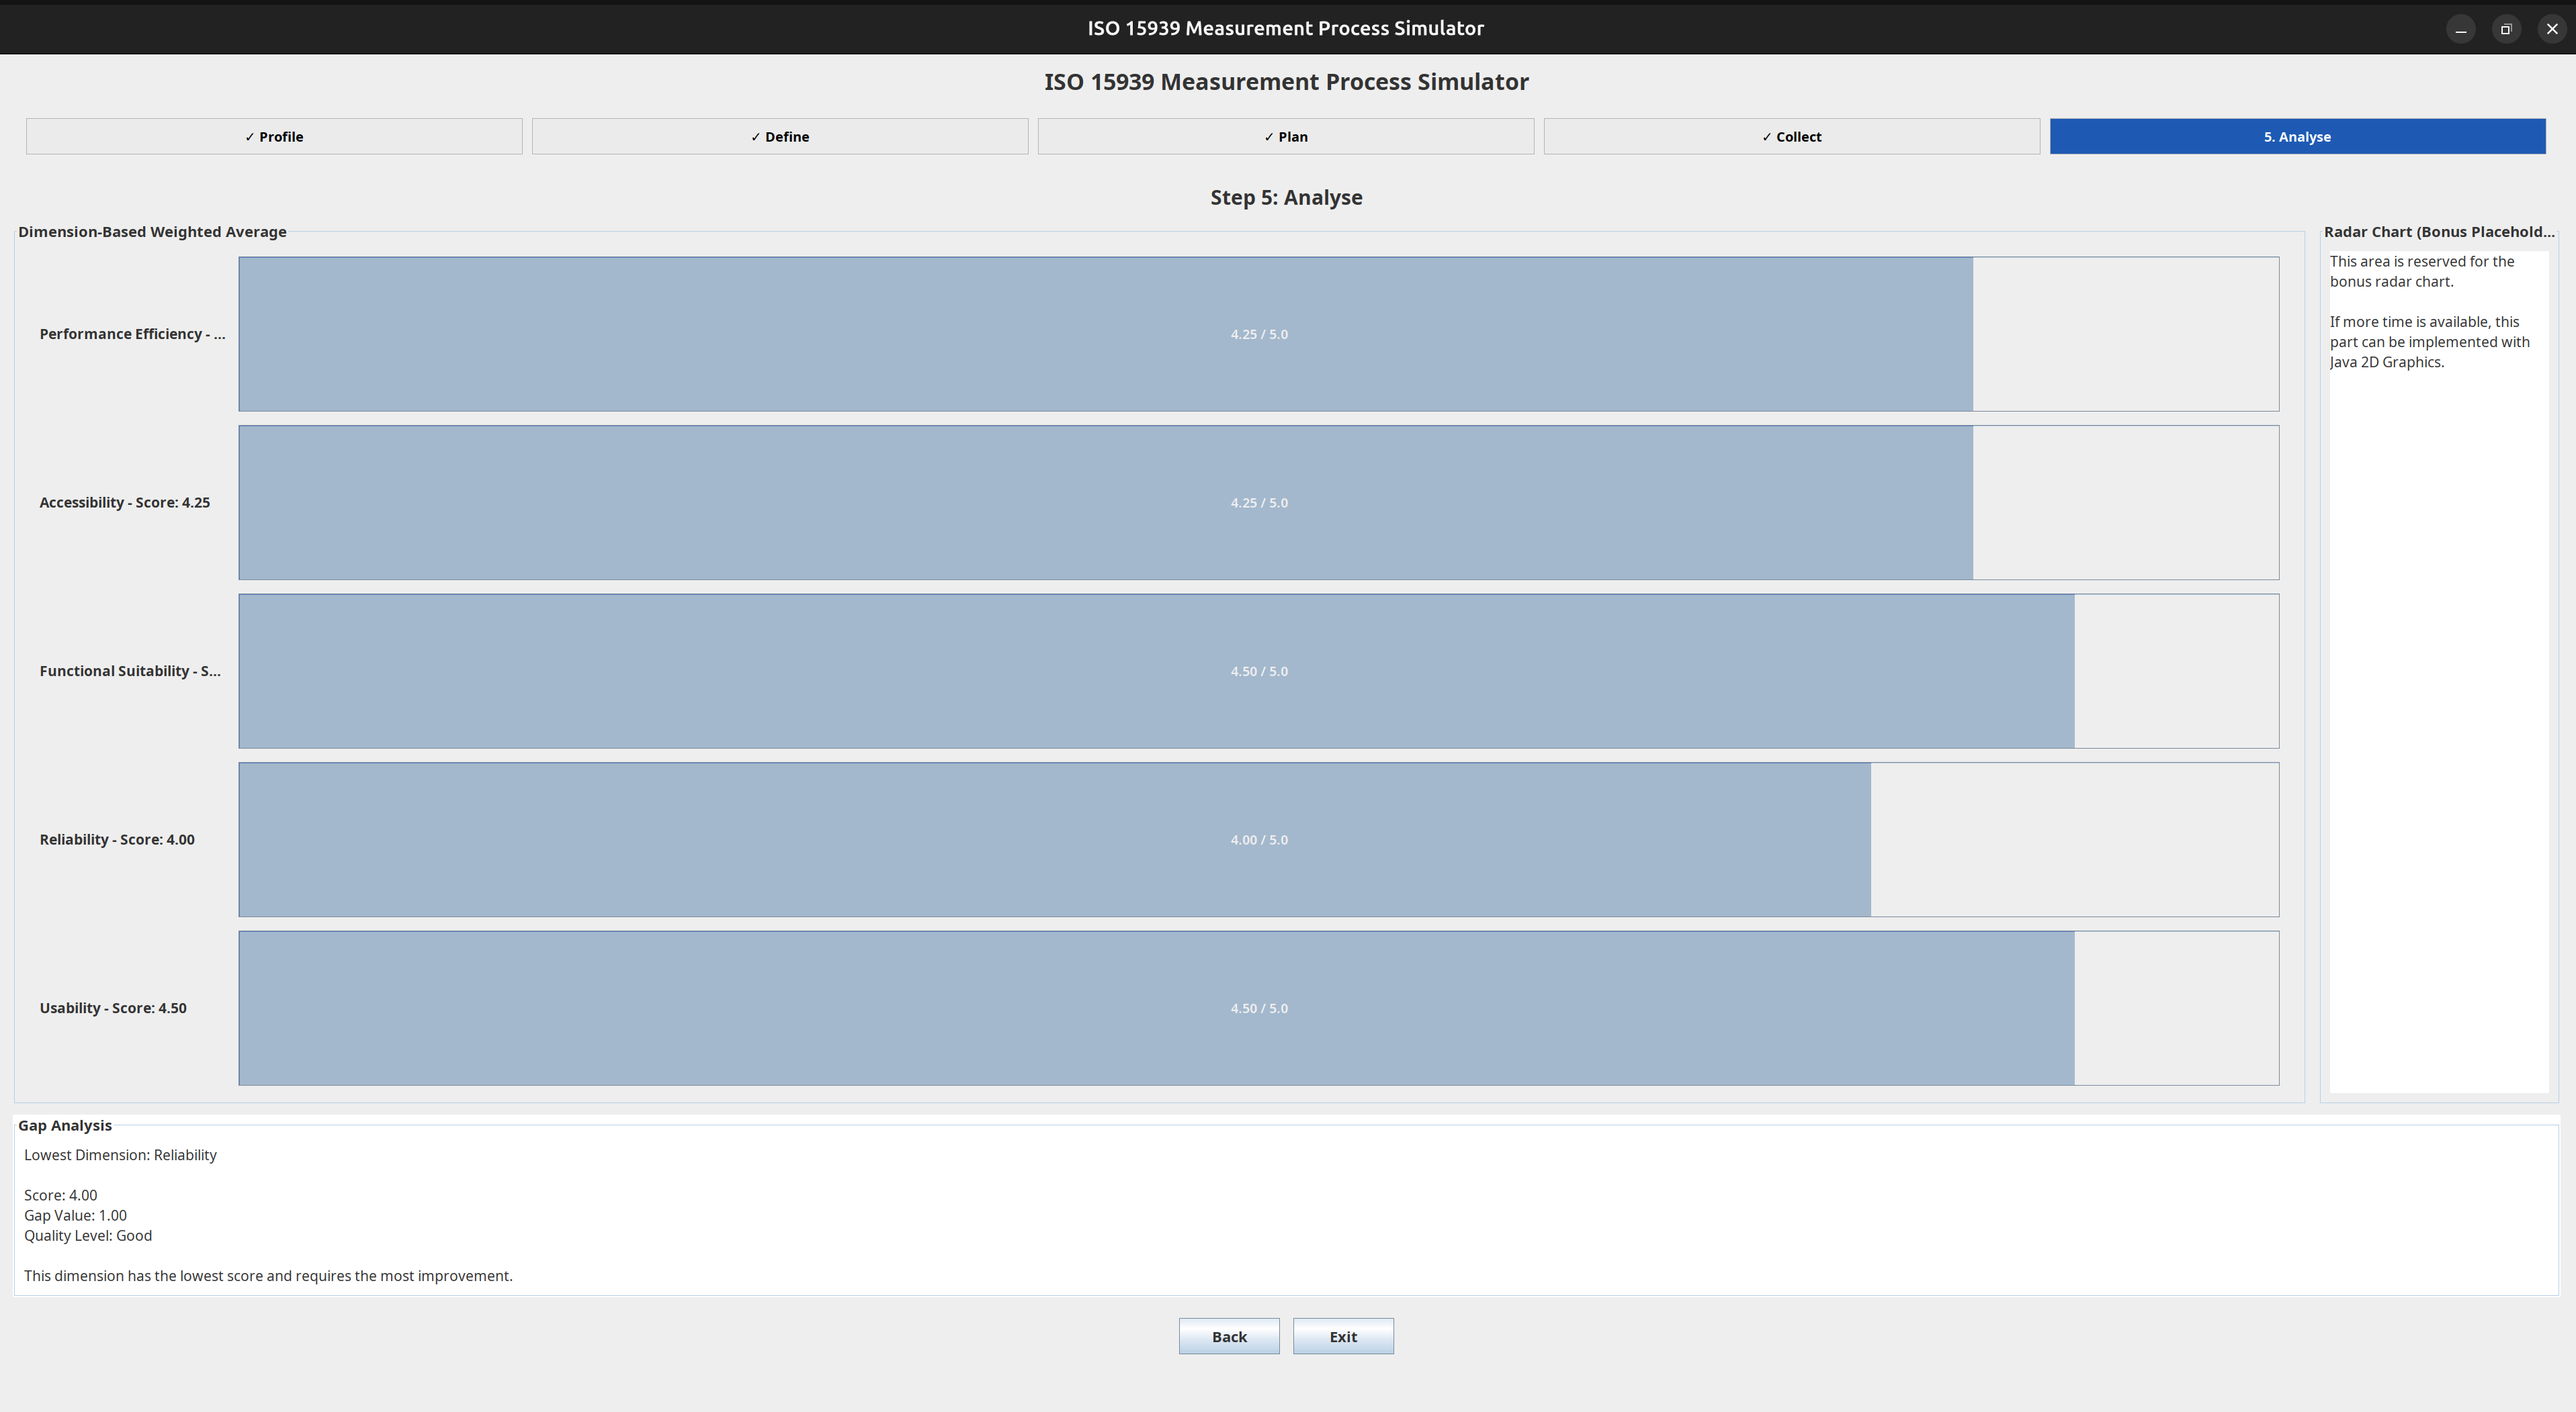
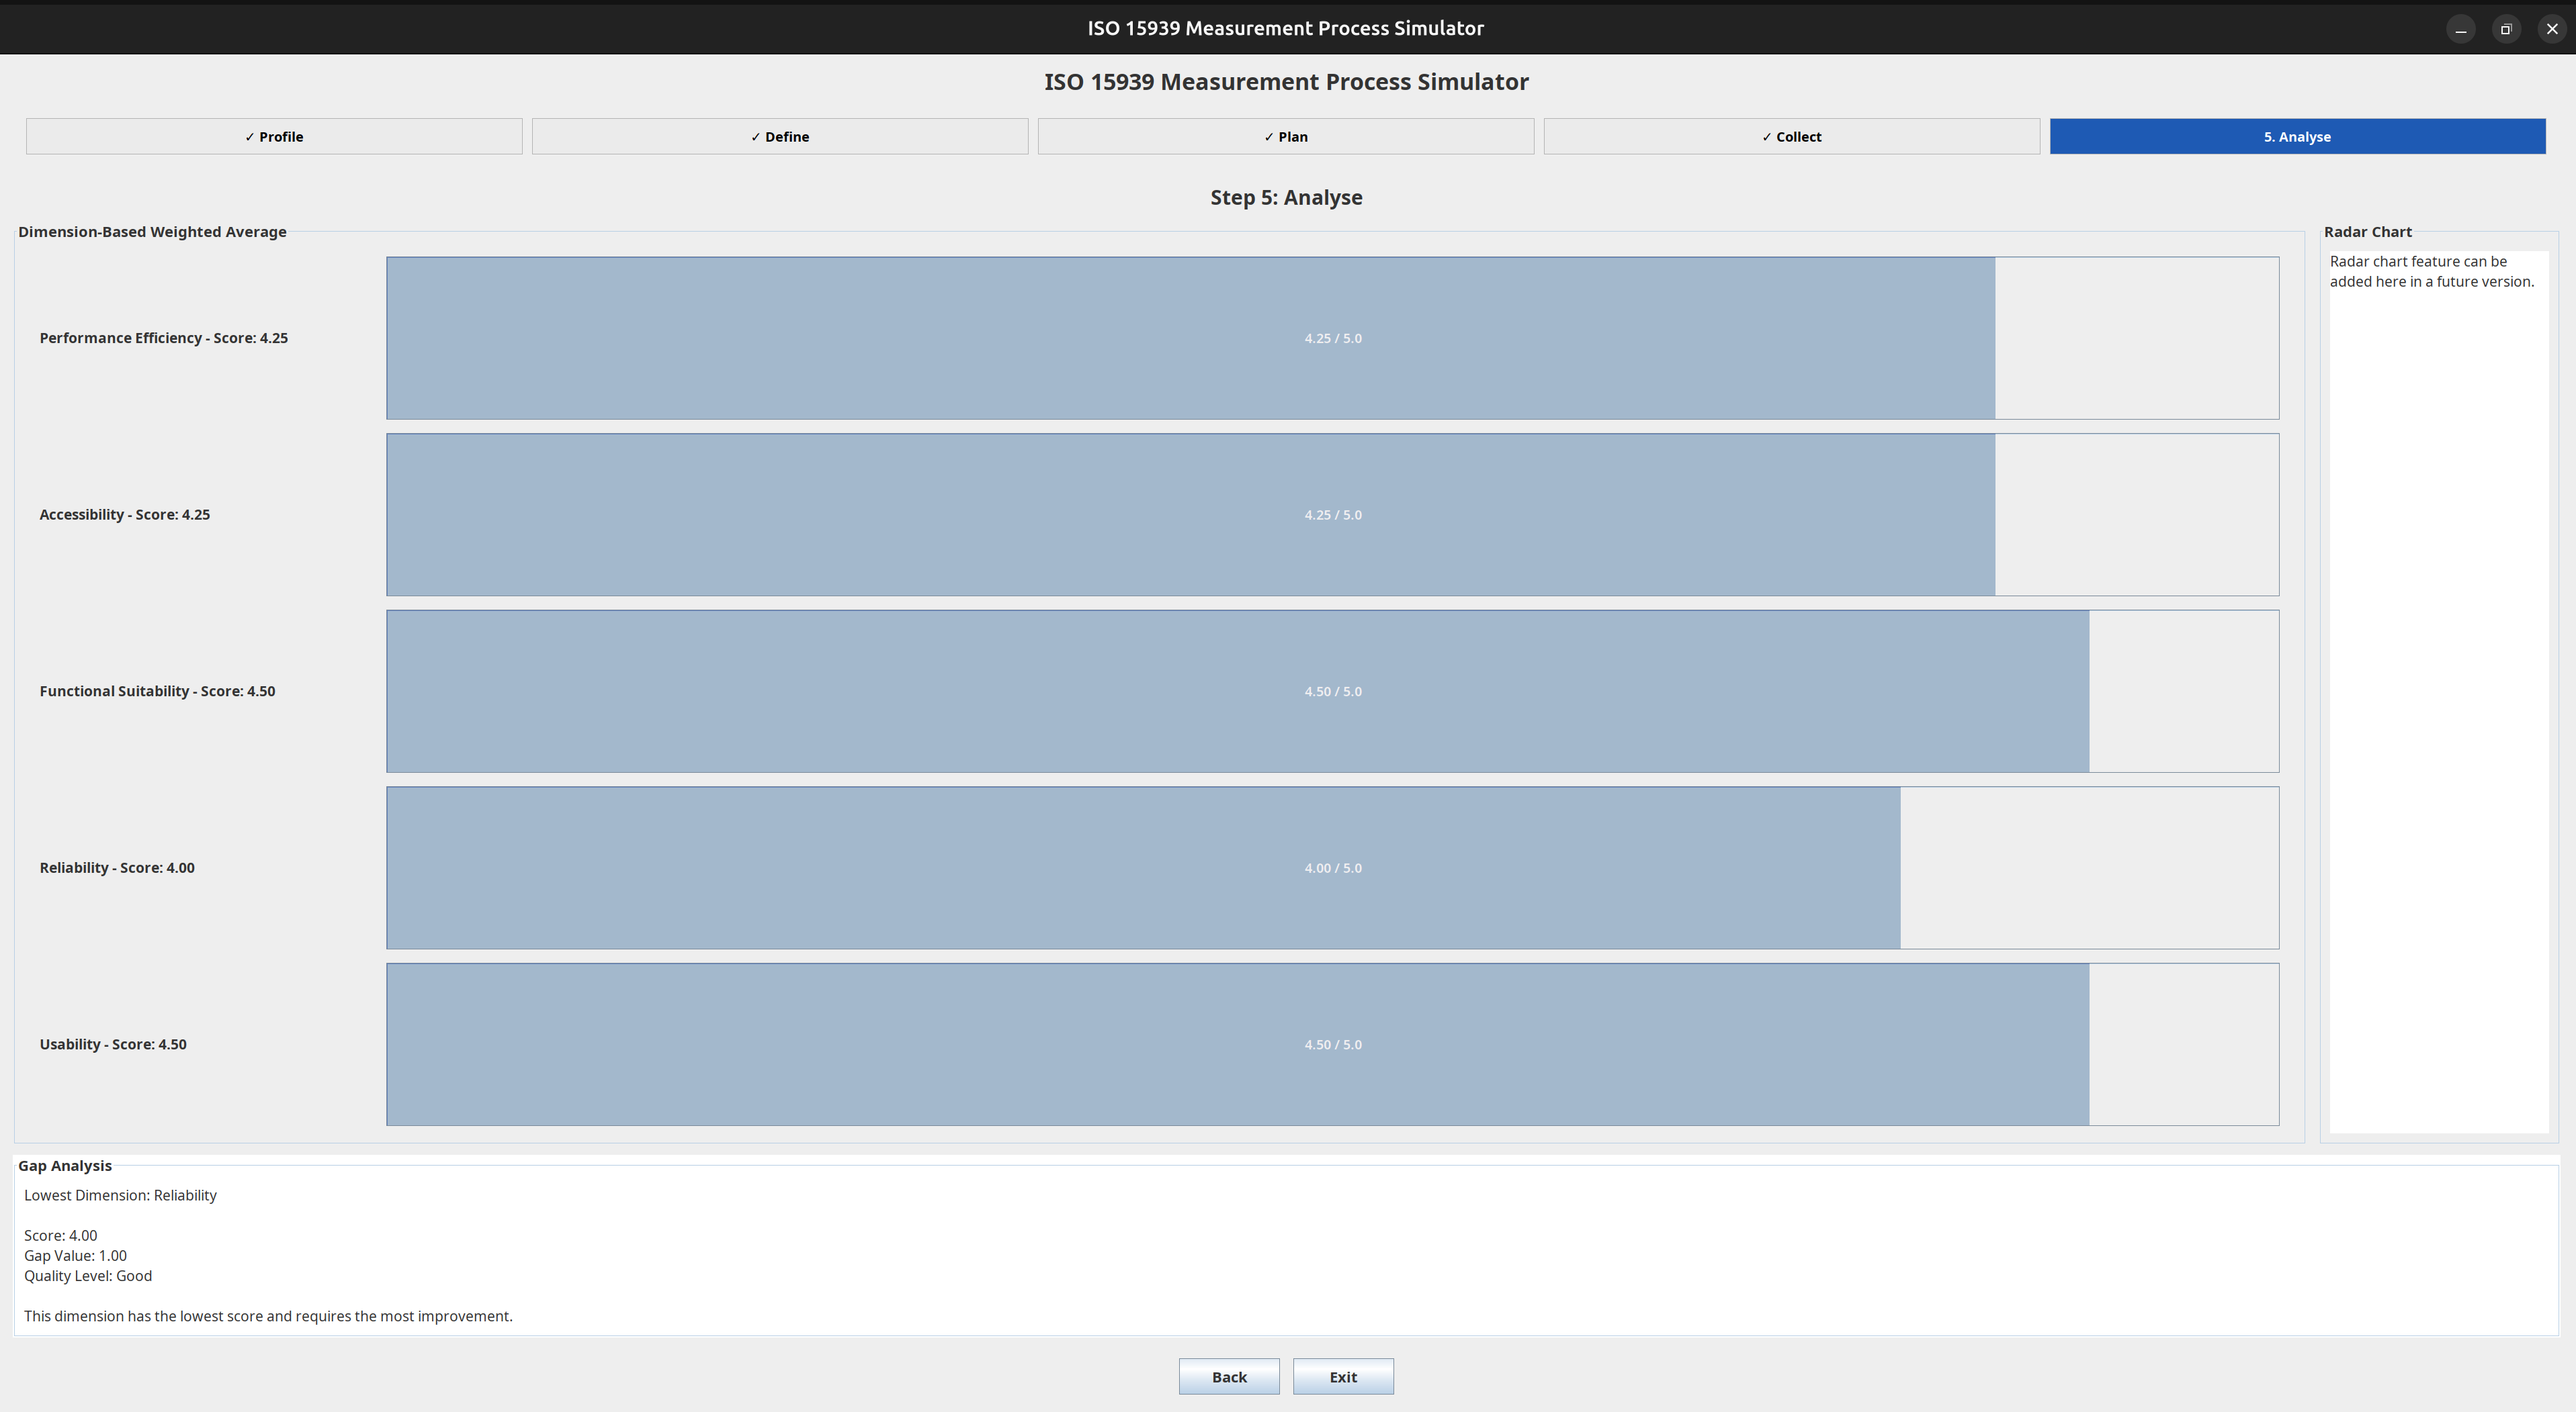
Finalize ISO15939 simulator project

diff --git a/ISO15939Simulator.java b/ISO15939Simulator.java
@@ -13,10 +13,7 @@ public class ISO15939Simulator {
     }
 }
 
-/*
- * Simple model class for one metric.
- * This keeps metric data separate from GUI code.
- */
+
 class Metric {
     private final String dimensionName;
     private final int dimensionCoefficient;
@@ -89,10 +86,7 @@ class Metric {
     }
 }
 
-/*
- * Scenario model class.
- * Each scenario has a mode, name, and a list of metrics.
- */
+
 class Scenario {
     private final String mode;
     private final String name;
@@ -117,11 +111,7 @@ class Scenario {
     }
 }
 
-/*
- * ScenarioRepository stores all hard-coded scenario data.
- * HashMap is used to group scenarios by mode.
- * ArrayList is used to store scenarios and metrics dynamically.
- */
+
 class ScenarioRepository {
     private final HashMap<String, ArrayList<Scenario>> scenariosByMode = new HashMap<>();
 
@@ -316,14 +306,7 @@ class MainFrame extends JFrame {
 
         add(cardPanel, BorderLayout.CENTER);
 
-        JPanel navigationPanel = new JPanel(new FlowLayout(FlowLayout.CENTER, 16, 12));
-        navigationPanel.setBorder(BorderFactory.createEmptyBorder(8, 10, 16, 10));
 
-
-
-
-
-        add(navigationPanel, BorderLayout.SOUTH);
 
         showStep("step1");
     }
@@ -357,11 +340,7 @@ class MainFrame extends JFrame {
         return label;
     }
 
-    private JButton createNavigationButton(String text) {
-        JButton button = new JButton(text);
-        button.setPreferredSize(new Dimension(160, 52));
-        return button;
-    }
+
 
     private JButton createLargeButton(String text) {
         JButton button = new JButton(text);
@@ -525,8 +504,6 @@ class MainFrame extends JFrame {
         healthRadio.addActionListener(e -> loadHealthScenarios.run());
         educationRadio.addActionListener(e -> loadEducationScenarios.run());
 
-        educationRadio.setSelected(true);
-        loadEducationScenarios.run();
 
         JPanel buttonPanel = new JPanel(new FlowLayout(FlowLayout.CENTER, 20, 16));
 
@@ -698,7 +675,7 @@ class MainFrame extends JFrame {
                 BorderFactory.createTitledBorder("Score Formula"),
                 BorderFactory.createEmptyBorder(12, 12, 12, 12)
         ));
-        formulaArea.setPreferredSize(new Dimension(430, 250));
+        formulaArea.setPreferredSize(new Dimension(500, 250));
 
         JButton backButton = createLargeButton("Back");
         JButton nextButton = createLargeButton("Next");
@@ -769,7 +746,7 @@ class MainFrame extends JFrame {
 
         JPanel radarPanel = new JPanel(new BorderLayout());
         radarPanel.setBorder(BorderFactory.createCompoundBorder(
-                BorderFactory.createTitledBorder("Radar Chart (Bonus Placeholder)"),
+                BorderFactory.createTitledBorder("Radar Chart"),
                 BorderFactory.createEmptyBorder(12, 12, 12, 12)
         ));
 
@@ -779,8 +756,7 @@ class MainFrame extends JFrame {
         radarText.setWrapStyleWord(true);
         radarText.setFont(new Font("Arial", Font.PLAIN, 21));
         radarText.setText(
-                "This area is reserved for the bonus radar chart.\n\n" +
-                        "If more time is available, this part can be implemented with Java 2D Graphics."
+                "Radar chart feature can be added here in a future version."
         );
 
         radarPanel.add(radarText, BorderLayout.CENTER);
@@ -837,7 +813,7 @@ class MainFrame extends JFrame {
         rowPanel.setBorder(BorderFactory.createEmptyBorder(12, 8, 12, 8));
 
         JLabel nameLabel = new JLabel(dimensionName + " - Score: " + String.format("%.2f", score));
-        nameLabel.setPreferredSize(new Dimension(280, 40));
+        nameLabel.setPreferredSize(new Dimension(500, 40));
         rowPanel.setBorder(BorderFactory.createEmptyBorder(10, 20, 10, 20));
         nameLabel.setFont(new Font("Arial", Font.BOLD, 21));
 
